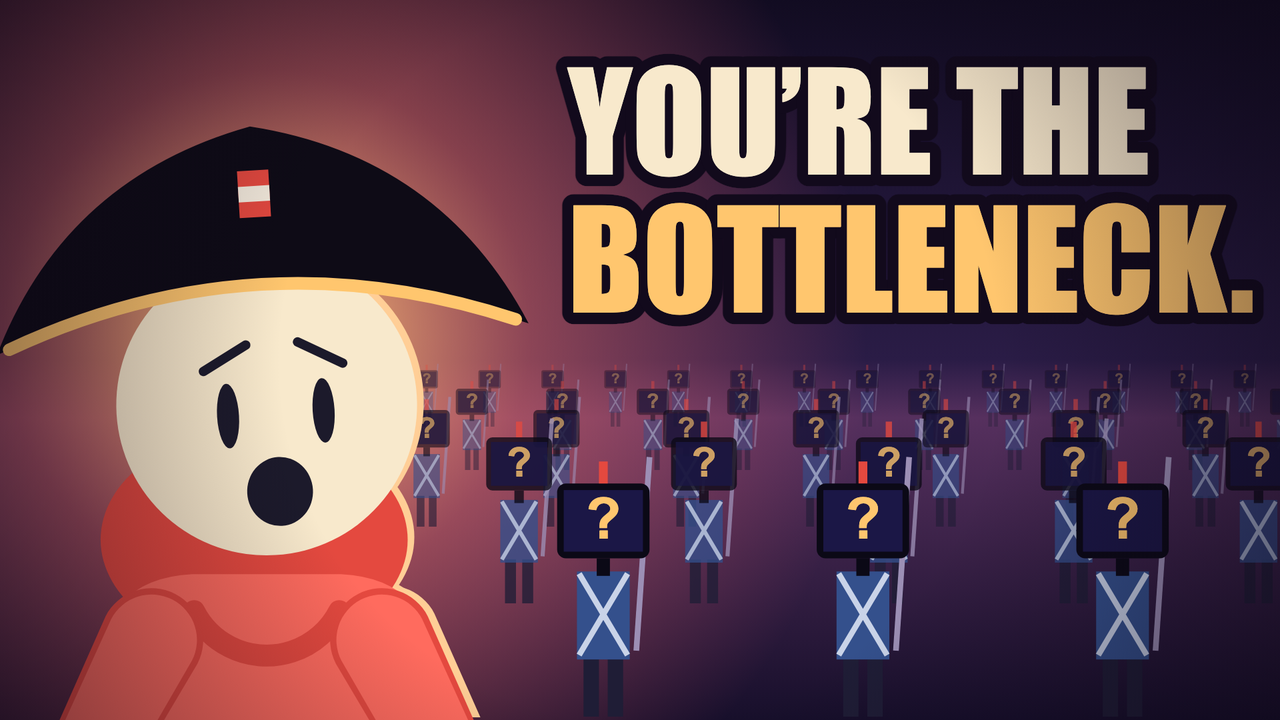
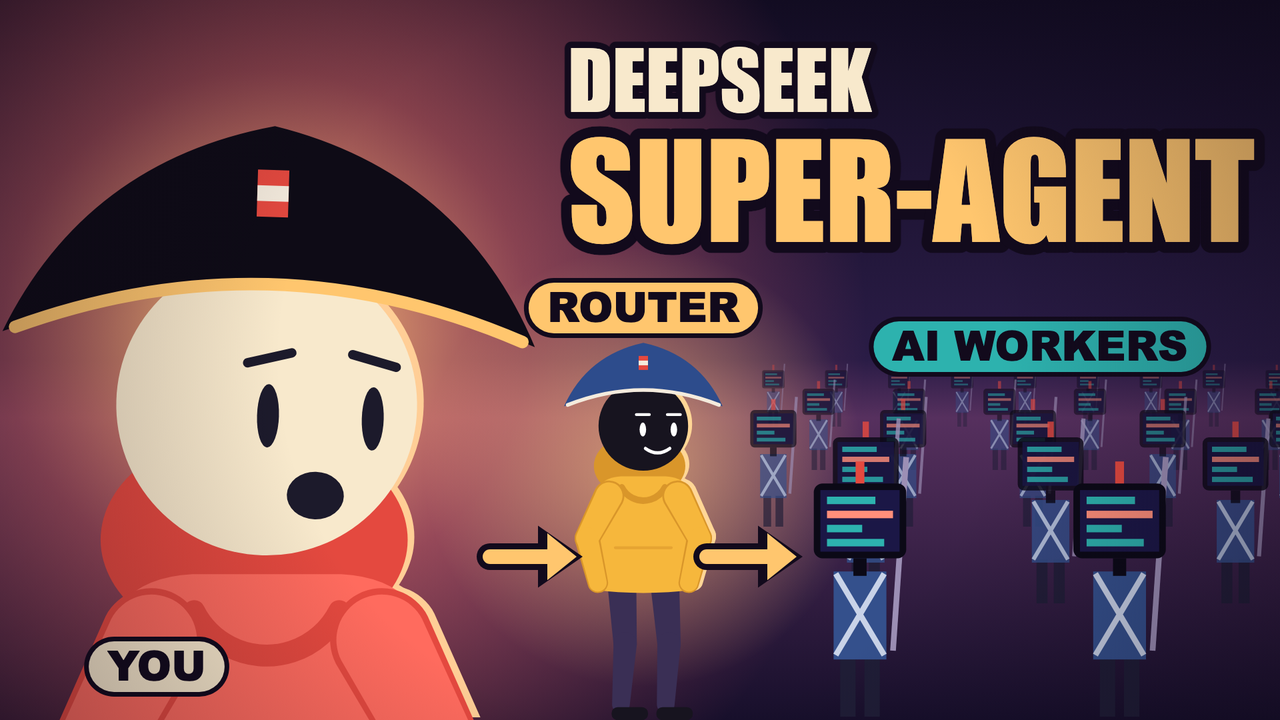
Episode 0: thumbnail v2 names the topic and shows the lesson
Owner found v1 too generic: nothing said what the viewer would learn.
v2 headline is DEEPSEEK SUPER-AGENT and the picture reads YOU -> ROUTER
-> AI WORKERS. product.md records the thumbnail rule.

diff --git a/episodes/deepseek-super-agent/film/thumb.js b/episodes/deepseek-super-agent/film/thumb.js
@@ -1,9 +1,10 @@
 // Episode 0 thumbnail, drawn with the film's own rig (loaded after film.js; render with thumb.py).
-// Rules followed (stickman packaging playbook, yt-package): one idea, one focal point, three elements
-// (the general's face, his army of screens, three words); the words don't repeat the title; dark ground with one light;
-// readable at 160 px wide; the bottom-right corner carries nothing that matters, because the duration badge covers it.
+// The owner's rule comes first: a viewer must see what they will learn. So the headline names the topic
+// (DEEPSEEK SUPER-AGENT) and the picture is the lesson itself: YOU -> one ROUTER -> many WORKERS, told with the film's army.
+// Kept from the packaging guides: big face with a readable emotion, dark ground with one light, heavy caps with one accent
+// colour, readable at 160 px wide, nothing that matters in the bottom-right corner (the duration badge covers it).
 
-// a soldier whose head is a screen waiting on a question: "your soldiers are AI coding agents"
+// a worker: a soldier whose head is a screen with code running on it ("your soldiers are AI coding agents")
 function screenSoldier(x, X, Y, k, a) {
   x.save(); x.globalAlpha = a;
   x.fillStyle = '#1F1D36'; x.fillRect(X - 9 * k, Y - 28 * k, 7 * k, 28 * k); x.fillRect(X + 2 * k, Y - 28 * k, 7 * k, 28 * k);
@@ -14,36 +15,62 @@ function screenSoldier(x, X, Y, k, a) {
   x.fillStyle = '#0B0916'; x.fillRect(X - 3 * k, Y - 72 * k, 6 * k, 8 * k);
   x.beginPath(); x.roundRect(X - 21 * k, Y - 106 * k, 42 * k, 34 * k, 4 * k); x.fill();
   x.fillStyle = '#1B1746'; x.fillRect(X - 18 * k, Y - 103 * k, 36 * k, 28 * k);
-  x.fillStyle = '#FFC66E'; x.font = `900 ${26 * k}px Arial`; x.textAlign = 'center'; x.textBaseline = 'middle'; x.fillText('?', X, Y - 88 * k);
+  [[0, 22, '#2DB2AE'], [1, 30, '#FF8F7A'], [2, 16, '#2DB2AE'], [3, 26, '#2DB2AE']].forEach(([i, w, c]) => { x.fillStyle = c; x.fillRect(X - 15 * k, Y - (100 - i * 6.4) * k, w * k, 3.4 * k) });
   x.fillStyle = '#E4493F'; x.fillRect(X - 2 * k, Y - 116 * k, 4 * k, 10 * k);
   x.restore();
+}
+// a name tag and an arrow, both outlined in dark so they hold on any part of the picture
+function tag(x, s, X, Y, fill, ink = '#120A1C') {
+  x.font = '900 62px "Arial Black", Arial, sans-serif'; const w = x.measureText(s).width + 56;
+  x.fillStyle = '#120A1C'; x.beginPath(); x.roundRect(X - w / 2 - 7, Y - 45, w + 14, 90, 45); x.fill();
+  x.fillStyle = fill; x.beginPath(); x.roundRect(X - w / 2, Y - 38, w, 76, 38); x.fill();
+  x.fillStyle = ink; x.textAlign = 'center'; x.textBaseline = 'middle'; x.fillText(s, X, Y + 4);
+}
+function arrowTo(x, x0, x1, Y) {
+  for (const [col, w, h] of [['#120A1C', 40, 58], ['#FFC66E', 22, 44]]) {
+    x.strokeStyle = col; x.fillStyle = col; x.lineWidth = w; x.lineCap = 'round';
+    x.beginPath(); x.moveTo(x0, Y); x.lineTo(x1 - h, Y); x.stroke();
+    x.beginPath(); x.moveTo(x1 + (w - 22) / 2, Y); x.lineTo(x1 - h, Y - h * .8); x.lineTo(x1 - h, Y + h * .8); x.closePath(); x.fill();
+  }
 }
 
 function drawThumb() {
   const x = ctx; x.setTransform(1, 0, 0, 1, 0, 0); x.globalAlpha = 1; x.filter = 'none'; x.globalCompositeOperation = 'source-over';
-  // dusk: dark everywhere, one light low behind the general
+  // dusk: dark everywhere, one light low behind the general, a smaller one behind the router
   let g = x.createLinearGradient(0, 0, 0, H); g.addColorStop(0, '#120C22'); g.addColorStop(.5, '#2A1C46'); g.addColorStop(.58, '#56305E'); g.addColorStop(1, '#170F2B');
   x.fillStyle = g; x.fillRect(0, 0, W, H);
   g = x.createRadialGradient(400, 500, 60, 400, 500, 900); g.addColorStop(0, 'rgba(255,196,120,.95)'); g.addColorStop(.4, 'rgba(238,110,104,.5)'); g.addColorStop(1, 'rgba(228,90,110,0)');
   x.fillStyle = g; x.fillRect(0, 0, W, H);
+  g = x.createRadialGradient(965, 700, 30, 965, 700, 330); g.addColorStop(0, 'rgba(255,206,130,.55)'); g.addColorStop(1, 'rgba(255,206,130,0)');
+  x.fillStyle = g; x.fillRect(600, 350, 760, 730);
 
-  // the army, back rank first, only to the right of the general so his outline stays clean
-  [[640, .8, .34], [705, 1.15, .46], [790, 1.65, .6], [905, 2.35, .78], [1075, 3.3, 1]].forEach(([y, k, a], r) => {
+  // WORKERS: the army, back rank first, on the right
+  [[640, .8, .4], [705, 1.15, .52], [790, 1.65, .66], [905, 2.35, .82], [1075, 3.3, 1]].forEach(([y, k, a], r) => {
     const sp = 118 * k;
-    for (let X = (r == 4 ? 905 : 640 + (r % 2 ? sp / 2 : 0)); X < W + 80; X += sp) screenSoldier(x, X, y, k, a);
+    for (let X = (r == 4 ? 1290 : 1160 + (r % 2 ? sp / 2 : 0)); X < W + 80; X += sp) screenSoldier(x, X, y, k, a);
   });
-  // the general: the film's hero in the bicorne, overwhelmed, looking out at the viewer
-  const p = { x: 400, y: 880, s: 2.35, face: 1, noLegs: true, breath: 0, look: .12, lookY: -.02, brow: 1, sad: .95, wide: 1.4, open: 1, tilt: -.06 };
+
+  // ROUTER: the chief of staff from the film, standing between the general and the army
+  const r = { x: 965, y: standY(1075, .7), s: .7, face: 1, breath: 0, look: .7, lookY: .1, mouth: .7, brow: .3 };
+  personRim(x, FRIEND, r, 'rgba(255,214,150,1)', 6, -3);
+  bicorne(x, r, '#2D4C8C', '#F4EBDD');
+
+  // YOU: the film's hero in the general's hat, amazed, watching the router take over
+  const p = { x: 400, y: 880, s: 2.35, face: 1, noLegs: true, breath: 0, look: .75, lookY: .05, brow: 1, sad: .45, wide: 1.3, open: .6, tilt: .03 };
   personRim(x, HERO, p, 'rgba(255,206,150,1)', 10, -4);
   bicorne(x, p, '#0E0B16', '#FFC66E');
 
-  // three words, the viewer's own verdict; the last one carries the accent colour
+  // the lesson, left to right
+  arrowTo(x, 735, 865, 835); arrowTo(x, 1060, 1195, 835);
+  tag(x, 'YOU', 235, 1000, '#F8E9CC'); tag(x, 'ROUTER', 965, 462, '#FFC66E'); tag(x, 'AI WORKERS', 1560, 520, '#2DB2AE');
+
+  // the topic, as the headline
   x.textAlign = 'left'; x.textBaseline = 'alphabetic'; x.lineJoin = 'round';
   const font = s => `${s}px Impact, "Arial Black", sans-serif`;
-  x.font = font(100); const size = 100 * 1030 / x.measureText('BOTTLENECK.').width;
-  const put = (s, Y, col) => { x.font = font(size); x.lineWidth = size * .17; x.strokeStyle = '#120A1C'; x.strokeText(s, 852, Y); x.fillStyle = col; x.fillText(s, 852, Y) };
-  put('YOU’RE THE', 262, '#F8E9CC'); put('BOTTLENECK.', 262 + size * 1.02, '#FFC66E');
+  x.font = font(100); const size = 100 * 1030 / x.measureText('SUPER-AGENT').width;
+  const put = (s, Y, sz, col) => { x.font = font(sz); x.lineWidth = sz * .17; x.strokeStyle = '#120A1C'; x.strokeText(s, 852, Y); x.fillStyle = col; x.fillText(s, 852, Y) };
+  put('DEEPSEEK', 168, size * .62, '#F8E9CC'); put('SUPER-AGENT', 168 + size * 1.0, size, '#FFC66E');
 
-  g = x.createRadialGradient(W / 2, H / 2, H * .5, W / 2, H / 2, H * 1.1); g.addColorStop(0, 'rgba(12,6,20,0)'); g.addColorStop(1, 'rgba(12,6,20,.6)');
+  g = x.createRadialGradient(W / 2, H / 2, H * .5, W / 2, H / 2, H * 1.1); g.addColorStop(0, 'rgba(12,6,20,0)'); g.addColorStop(1, 'rgba(12,6,20,.4)');
   x.fillStyle = g; x.fillRect(0, 0, W, H);
 }

diff --git a/episodes/deepseek-super-agent/progress.md b/episodes/deepseek-super-agent/progress.md
@@ -38,9 +38,10 @@ none
 - 2026-11-20: Cut 4, because the owner asked for a call to action at the end: spoken "Subscribe for the next one." plus a Subscribe button on screen.
   To stay at 60 s, the pause before the takeaway is a line break (0.5 s) instead of a paragraph break (0.95 s); only the last five shots were retimed.
 - 2026-11-21: Thumbnail drawn from code with the film's rig (`film/thumb.js`), not an AI image generator, because the product renders visuals from code.
-  Idea: the general, shocked, in front of an army whose heads are screens asking "?". Text "YOU'RE THE BOTTLENECK." (3 words, a verdict about the viewer, different words from the title).
-  Rules applied (stickman packaging playbook + `yt-package`): one idea, three elements, big face with an exaggerated expression, dark ground with one light,
-  text top-right in heavy caps with one accent colour, nothing important bottom-right (duration badge), checked readable at 160 px wide.
+- 2026-11-21: Thumbnail v2, because the owner rejected v1 ("YOU'RE THE BOTTLENECK." over a shocked general) as too generic: a viewer couldn't tell the topic.
+  Owner's rule: the thumbnail must show what the viewer will learn. So the headline is the topic (DEEPSEEK SUPER-AGENT) and the picture is the lesson:
+  YOU (the general) -> ROUTER (the chief of staff) -> AI WORKERS (soldiers with screens for heads). This overrides the guides' "don't repeat the title" and "3 words" rules.
+  Kept from the guides: big face with a readable emotion, dark ground with one light, heavy caps with one accent colour, checked at 160 px wide, bottom-right left unimportant.
 
 ## Answers for the specs (Episode 0's open questions)
 - episode Q1 (brief fields): the draft fields were enough; `claims[].source` per claim worked. Nothing was missing.
@@ -65,4 +66,4 @@ none
 - 2026-11-20 ep-super-agent: cut 4: call to action at the end (voice + Subscribe button); audit 0 issues.
 - 2026-11-20 ep-super-agent: `upload.json` written; final cut copied to `video.mp4` for `yt upload`.
 - 2026-11-21 ep-super-agent: uploaded as private with `yt upload --confirm` (video id in `published.json`).
-- 2026-11-21 ep-super-agent: thumbnail made (`thumbnail.png`, 1280x720, 614 KB) from `film/thumb.js`; not yet set on the video.
+- 2026-11-21 ep-super-agent: thumbnail made (`thumbnail.png`, 1280x720) from `film/thumb.js`; v2 names the topic and shows YOU -> ROUTER -> AI WORKERS; not yet set on the video.

diff --git a/docs/product.md b/docs/product.md
@@ -40,6 +40,8 @@ actually understand it: how it works, not just its name.
 Pace: a new shot about every 2-3 seconds (Episode 0's first cut averaged 6 and felt slow).
 Sound: voice, quiet instrumental music (no lyrics, about 16 dB under the voice) and a few sampled effects; no room tone or other noise bed.
 Captions: upload `script.md` as the video's captions (packaging step).
+Thumbnail: the headline names the topic and the picture shows the lesson (Episode 0: YOU -> ROUTER -> AI WORKERS), so a viewer knows
+what they will learn before clicking. A hook that could sit on any video is too generic. Drawn from code with the film's characters.
 
 ## Skills used
 | Skill | Repo | Role |
